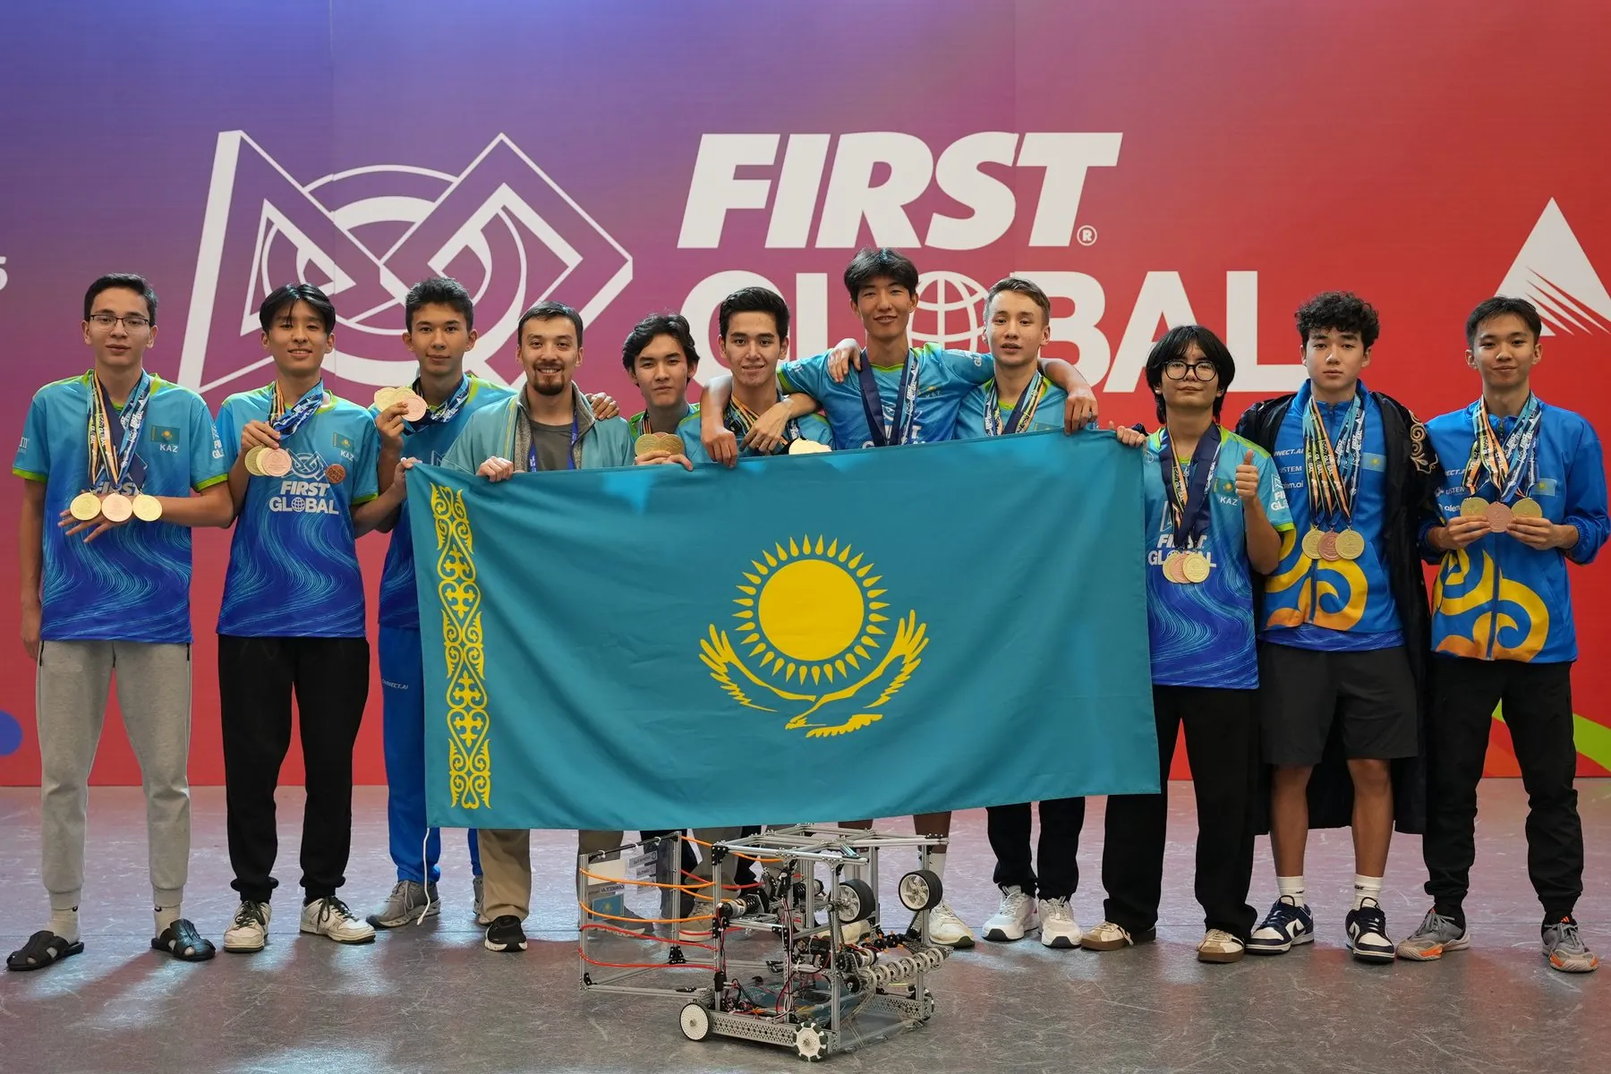
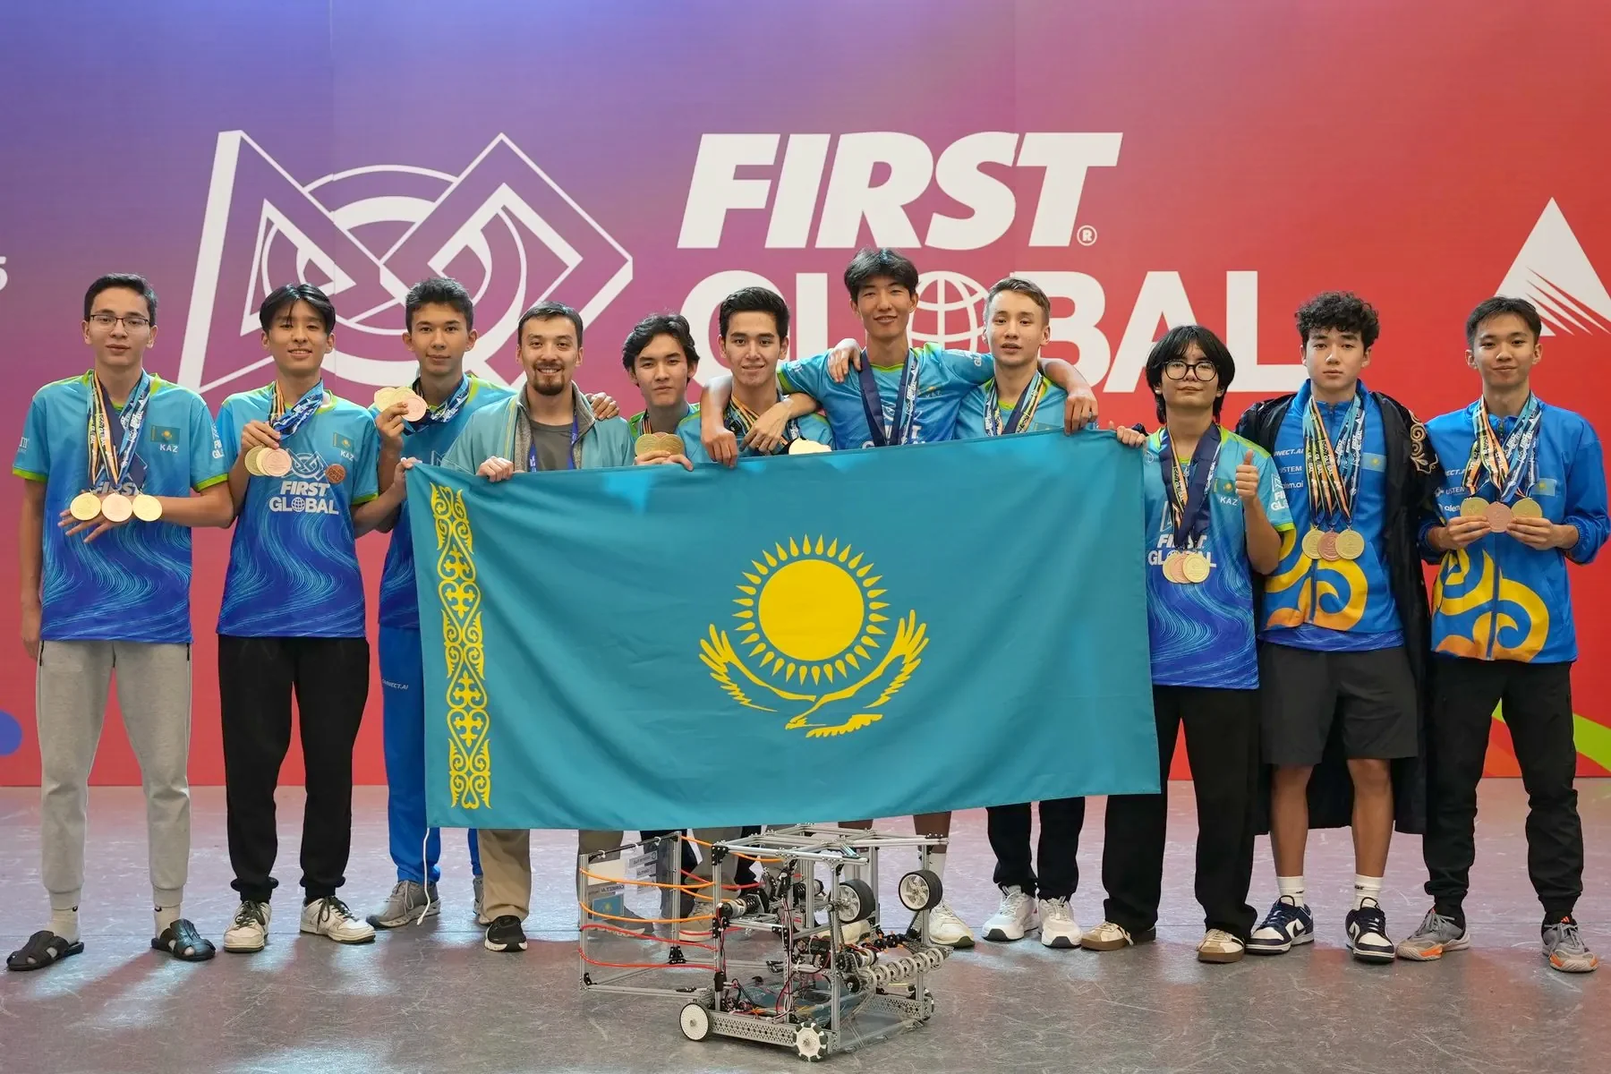
Турниры без места: серая кнопка uSTEM Connect, короткие тексты, место только у скримиджей; фото в шапке светлее (#64)
- Турнир без места проведения в таблице: кнопка «Регистрация в uSTEM Connect» серая и не нажимается, под ней строка «Регистрация ещё не открыта. Следите за обновлениями» (ru/kk/en).
- Турнир с местом или со ссылкой на connect.ustem.kz: пометка «Регистрация открыта в uSTEM Connect», активная кнопка, короткая подсказка.
- Строка места проведения у турниров с Connect не показывается; у скримиджей место остаётся.
- Фото в шапке чуть светлее (средняя яркость +15 %), WebP пересохранены с качеством 86.

Claude-Session: https://claude.ai/code/session_01Y8p6d4PKcjn3n3KiJZWQH4

diff --git a/assets/js/app.js b/assets/js/app.js
@@ -19,14 +19,14 @@ const curl=c=>Array.isArray(c)&&/^https?:\/\//.test(c[1])?c[1]:"";
 /* кнопка регистрации — только ссылка на Google Форму (forms.gle/… или docs.google.com/forms/…, как в tools/update_data.py → is_form_url);
  * любой другой адрес из таблицы (документ, таблица Google, чужой сайт) кнопкой не становится */
 const formUrl=u=>{try{const x=new URL(u);return x.protocol==="https:"&&(x.hostname==="forms.gle"||(x.hostname==="docs.google.com"&&x.pathname.startsWith("/forms/")))?u:""}catch(e){return""}};
-/* uSTEM Connect (data.js → CONNECT): регистрация команд на официальные турниры. Ссылка на конкретное событие – любая гиперссылка
- * на connect.ustem.kz в строке события таблицы; без неё кнопка ведёт на общий список событий платформы */
+/* uSTEM Connect (data.js → CONNECT): регистрация команд на официальные турниры. Платформа берёт события из той же таблицы:
+ * как только в строке турнира заполнено место проведения, он появляется в Connect – и кнопка на сайте становится активной.
+ * Ссылка на конкретное событие – любая гиперссылка на connect.ustem.kz в строке события таблицы; без неё кнопка ведёт на список событий платформы */
 const connUrl=u=>{try{const x=new URL(u);return x.protocol==="https:"&&typeof CONNECT!="undefined"&&x.hostname===CONNECT.host?u:""}catch(e){return""}};
 /* регистрация через uSTEM Connect – командные турниры: Regional, Qualifier, национальный этап, Off-Season и чемпионаты из вкладки Big Events.
  * Скримидж и кик-офф – Google Формы из таблицы; прочие события Big Events (дедлайн и интервью FIRST Leadership Award, Digital Qazaqstan) –
  * как раньше, только ссылки из таблицы; встроенные карточки SMC и FIRST4ALL – со своими ссылками из data.js */
 const viaConnect=e=>(/^(reg|qual|rep|off)$/.test(e.stage)||(e.stage==="big"&&/championship/i.test(e.name)))&&!/^(SMC|F4A)$/.test(e.tab);
-const TG_URL="https://t.me/firstroboticskz";
 const cu=v=>{const u=encodeURI(String(v==null?"":v)).replace(/[()"']/g,"");return u?`url('${u}')`:"none"};   /* в атрибуте style — только одинарные кавычки */
 const lo=s=>String(s||"").replace(/\s+/g," ").trim().toLowerCase();
 const p2=n=>String(n).padStart(2,"0");
@@ -321,20 +321,22 @@ function evCard(e){const i=I[L],online=e.city.key==="online";
   const vis=e.vis,multi=vis.length>1;
   /* порядок строк: город → площадка → дата → категории → регистрация.
    * Регистрация: скримидж (и кик-офф) – Google Формы из таблицы, по кнопке на категорию; официальный турнир (viaConnect) – одна кнопка uSTEM Connect:
-   * место подтверждено или в строке есть ссылка на событие Connect – «регистрация открыта», иначе над той же кнопкой пометка «откроется позже»
-   * и ссылка на Telegram. Google Формы в строках таких турниров кнопками не становятся – кроме семинаров для учителей */
+   * в строке заполнено место проведения (или есть ссылка на connect.ustem.kz) – «регистрация открыта», кнопка активна; иначе серая
+   * неактивная кнопка и строка «регистрация ещё не открыта, следите за обновлениями». Google Формы в строках таких турниров кнопками
+   * не становятся – кроме семинаров для учителей */
   const ses=s=>{
     const cats=s.cats,conn=viaConnect(e);
     const btn=cats.filter(c=>c.url&&(!conn||c.code==="SEM"));
-    const showV=!(online&&(!s.v||/^(online|онлайн)$/i.test(s.v.n)))&&!!(s.v||e.cn);
+    const showV=!conn&&!(online&&(!s.v||/^(online|онлайн)$/i.test(s.v.n)))&&!!(s.v||e.cn);   /* у турниров с uSTEM Connect место не показываем – оно на странице турнира в Connect */
     const one=cats.length===1&&btn.length===1;
     const bl=c=>c.closed?`${catLabel(c)} · ${tt("regclosed")}`:c.code==="SEM"?tt("joinSem"):c.code==="SMC"?tt("smcBtn"):btn.length>1?`${tt("join")} · ${catLabel(c)}`:tt("join");
     const fbs=btn.length?`<div class="fbs">${btn.map(c=>`<a class="fb${c.code==="SEM"?" sem":""}${c.closed?" off":""}" href="${esc(c.url)}" target="_blank" rel="noopener noreferrer" title="${esc(catLabel(c))}">${esc(bl(c))}</a>`).join("")}</div>`:"";
     let reg=fbs;
     if(conn){const open=!!(s.conn||(s.v&&s.d.start)),url=s.conn||CONNECT.url;
-      reg=`<div class="rb ${open?"open":"wait"}"><span class="rs">${esc(tt(open?"rsOpen":"rsWait"))}</span><p class="rn">${esc(tt(open?"connNote":"connWait"))}</p>
-        <div class="fbs"><a class="fb cn${open?"":" soft"}" href="${esc(url)}" target="_blank" rel="noopener noreferrer">${esc(tt("connBtn"))}${ICO.ext}</a></div>
-        ${open?"":`<a class="tgl" href="${TG_URL}" target="_blank" rel="noopener noreferrer">${ICO.tg}${esc(tt("tgBtn"))}</a>`}${fbs}</div>`}
+      reg=`<div class="rb ${open?"open":"wait"}">${open?`<span class="rs">${esc(tt("rsOpen"))}</span>`:""}
+        <div class="fbs">${open?`<a class="fb cn" href="${esc(url)}" target="_blank" rel="noopener noreferrer">${esc(tt("connBtn"))}${ICO.ext}</a>`
+          :`<span class="fb cn dis" aria-disabled="true">${esc(tt("connBtn"))}${ICO.ext}</span>`}</div>
+        <p class="rn">${esc(tt(open?"connNote":"connWait"))}</p>${fbs}</div>`}
     else if(btn.length&&e.stage==="scrim")reg=`<div class="rb form"><span class="rs">${esc(tt("rsForm"))}</span>${fbs}</div>`;
     return `<div class="${multi?"ses":"one"}">
       ${showV?`<p>${ICO.pin}<span>${venueHtml(s.v)}</span></p>`:""}

diff --git a/assets/js/data.js b/assets/js/data.js
@@ -88,11 +88,9 @@ const T={
   regsoon:"регистрация скоро",
   rsForm:"Регистрация: Google Форма",
   rsOpen:"Регистрация открыта в uSTEM Connect",
-  rsWait:"Регистрация откроется позже",
   connBtn:"Регистрация в uSTEM Connect",
-  connNote:"Команды регистрируются на платформе uSTEM Connect: войдите в аккаунт тренера, выберите турнир и подайте заявку.",
-  connWait:"Место проведения и точные даты этого турнира ещё уточняются. Как только выйдет приказ РНПЦ «Дарын» и площадка будет подтверждена, регистрация откроется в uSTEM Connect. Следите за обновлениями здесь и в нашем Telegram.",
-  tgBtn:"Следить в Telegram",
+  connNote:"Войдите в аккаунт тренера и подайте заявку на турнир.",
+  connWait:"Регистрация ещё не открыта. Следите за обновлениями.",
   regs:"Регионы (для FLL)",
   tba:"Дата уточняется",
   vtba:"Площадка уточняется",
@@ -203,11 +201,9 @@ const T={
   regsoon:"тіркелу жақында ашылады",
   rsForm:"Тіркелу: Google Форма",
   rsOpen:"Тіркелу uSTEM Connect-те ашық",
-  rsWait:"Тіркелу кейінірек ашылады",
   connBtn:"uSTEM Connect-те тіркелу",
-  connNote:"Командалар uSTEM Connect платформасында тіркеледі: жаттықтырушы аккаунтына кіріп, жарысты таңдап, өтінім беріңіз.",
-  connWait:"Бұл жарыстың өтетін орны мен нақты күндері әлі нақтылануда. «Дарын» РҒПО бұйрығы шығып, алаң бекітілген бойда тіркелу uSTEM Connect-те ашылады. Жаңалықтарды осы жерден және Telegram арнамыздан қадағалаңыз.",
-  tgBtn:"Telegram-да қадағалау",
+  connNote:"Жаттықтырушы аккаунтына кіріп, жарысқа өтінім беріңіз.",
+  connWait:"Тіркелу әлі ашылмаған. Жаңалықтарды қадағалаңыз.",
   regs:"Қатысатын аймақтар (FLL үшін)",
   tba:"Күні нақтылануда",
   vtba:"Өтетін орны нақтылануда",
@@ -318,11 +314,9 @@ const T={
   regsoon:"registration opens soon",
   rsForm:"Registration: Google Form",
   rsOpen:"Registration open in uSTEM Connect",
-  rsWait:"Registration opens later",
   connBtn:"Register in uSTEM Connect",
-  connNote:"Teams register on the uSTEM Connect platform: sign in to your coach account, choose the tournament and submit an application.",
-  connWait:"The venue and exact dates of this tournament are still being confirmed. As soon as the Daryn RNPC order is issued and the venue is confirmed, registration will open in uSTEM Connect. Follow updates here and on our Telegram.",
-  tgBtn:"Follow on Telegram",
+  connNote:"Sign in to your coach account and submit the team's application.",
+  connWait:"Registration is not open yet. Follow the updates.",
   regs:"Regions (for FLL)",
   tba:"Date TBA",
   vtba:"Venue TBA",
@@ -359,6 +353,7 @@ const T={
 /* правила сезона по языкам (на en показывается казахская версия); вкладка «Сайт» таблицы может их заменить */
 const RULES={ru:"https://docs.google.com/document/d/1TV8MHEAr9Bs6SmhHWekbSw3sm-X9tSE7zwMgebt6Rq8/edit?tab=t.0",kk:"https://docs.google.com/document/d/1UYpkDZL86SZpFMcgtpUmEJi4qnT7Oj-1BdGGisJD9ws/edit?tab=t.0"};
 /* uSTEM Connect – платформа регистрации команд на официальные турниры (все этапы, кроме кик-оффа и скримиджа; скримиджи – Google Формы из таблицы).
+ * Платформа берёт события из той же таблицы: заполнили место проведения – турнир появился в Connect, кнопка на сайте стала активной.
  * url – куда ведёт кнопка, пока у события нет своей ссылки; своя ссылка – любая гиперссылка на connect.ustem.kz в строке события в таблице.
  * host – по нему такая ссылка узнаётся (app.js → connUrl). Переехала платформа – поменяйте обе строки. */
 const CONNECT={url:"https://connect.ustem.kz/events",host:"connect.ustem.kz"};

diff --git a/assets/css/style.css b/assets/css/style.css
@@ -53,7 +53,7 @@ button,select,input{font:inherit;color:inherit}
 
 
 /* ---------- первый экран ---------- */
-.hero{position:relative;display:flex;color:#fff;min-height:calc(100vh - 135px);min-height:calc(100svh - 135px);background:#0c1e36 url(../img/team-kz-fgc.webp?v=20261023-0009) 50% 35%/cover no-repeat;align-items:flex-end} /* первый экран: высота окна минус шапка; у сгиба чуть виден край карточки сезона с меткой */
+.hero{position:relative;display:flex;color:#fff;min-height:calc(100vh - 135px);min-height:calc(100svh - 135px);background:#0c1e36 url(../img/team-kz-fgc.webp?v=20261023-1240) 50% 35%/cover no-repeat;align-items:flex-end} /* первый экран: высота окна минус шапка; у сгиба чуть виден край карточки сезона с меткой */
 .hero:before{content:"";position:absolute;inset:0;background:linear-gradient(180deg,rgba(10,26,50,.06) 0%,rgba(10,26,50,.14) 38%,rgba(10,26,50,.46) 68%,rgba(10,26,50,.68) 100%)} /* затемнение фото: лёгкое сверху, сильнее у текста внизу */
 .hero h1{text-shadow:0 1px 14px rgba(8,20,40,.35);font-weight:800;text-transform:uppercase;max-width:960px;letter-spacing:-.005em;font-size:clamp(27px,2.7vw,40.5px);line-height:1.12}
 .hero p{text-shadow:0 1px 14px rgba(8,20,40,.35);font-size:clamp(19px,1.85vw,28px);line-height:1.25;font-weight:400;color:#fff;margin-top:26px;max-width:820px}
@@ -326,16 +326,11 @@ a.alc:focus-visible{outline:2px solid var(--blue);outline-offset:2px}
 .rb.form .rs{background:#fdecec;color:#b42318}
 .rb.open .rs{background:#e4edfc;color:#1e4fc2}
 .rb.wait .rs{background:#f1f3f6;color:#4b5563}
-.ec p.rn{display:block;margin:8px 0 0;font-size:13px;line-height:19px;color:var(--mu)}
-.rb.wait p.rn{background:#f8fafc;border-left:3px solid #cbd5e1;border-radius:0 6px 6px 0;padding:7px 10px;color:#374151}
+.ec p.rn{display:block;margin:6px 0 0;font-size:12.5px;line-height:18px;color:var(--mu)}
 .fb.cn{gap:7px;background:var(--blue);border-color:var(--blue);color:#fff}
 .fb.cn svg{width:15px;height:15px;flex:none;fill:none;stroke:currentColor;stroke-width:2;stroke-linecap:round;stroke-linejoin:round}
 .fb.cn:hover{background:#0c1e36;border-color:#0c1e36}
-.fb.cn.soft{background:#fff;color:var(--blue)}
-.fb.cn.soft:hover{background:var(--blue);color:#fff}
-.tgl{display:inline-flex;align-items:center;gap:6px;margin-top:8px;padding:4px 0;font-size:13px;font-weight:600;color:var(--blue)}
-.tgl svg{width:16px;height:16px;flex:none;fill:currentColor}
-.tgl:hover{color:#0c1e36}
+.fb.cn.dis{background:#eef1f5;border-color:#e3e7ec;color:#8a94a3;cursor:default;pointer-events:none} /* турнира ещё нет в uSTEM Connect */
 .morew{position:relative;z-index:2;text-align:center;margin-top:-34px}
 .morew.end{visibility:hidden}
 .more{display:inline-flex;align-items:center;justify-content:center;border:1px solid #eceff3;background:#fff;border-radius:999px;box-shadow:0 2px 10px rgba(0,0,0,.14);cursor:pointer;color:#4b5563;padding:8px 14px;font-size:0;transition:transform .18s,box-shadow .18s}
@@ -500,7 +495,7 @@ footer .team+.cp{margin-top:32px}
   body{font-size:16px}
   .w{padding-left:20px;padding-right:20px}
   /* телефон: фото сборной целиком по ширине экрана (высота = 2/3 ширины), под ним текст на тёмно-синем; граница фото и фона сведена градиентом */
-  .hero{min-height:0;align-items:flex-start;background:#0c1e36 url(../img/team-kz-fgc-m.webp?v=20261023-0009) 50% 0/100% auto no-repeat}
+  .hero{min-height:0;align-items:flex-start;background:#0c1e36 url(../img/team-kz-fgc-m.webp?v=20261023-1240) 50% 0/100% auto no-repeat}
   .hero:before{background:linear-gradient(180deg,rgba(12,30,54,0) 0,rgba(12,30,54,0) calc(66.67vw - 70px),rgba(12,30,54,.6) calc(66.67vw - 22px),#0c1e36 calc(66.67vw + 1px))}
   .hero .in{padding:calc(66.67vw - 6px) 20px 44px}
   .hero h1{font-size:clamp(21px,6vw,27px);line-height:1.2}

diff --git a/index.html b/index.html
@@ -14,7 +14,7 @@
 <link rel="preconnect" href="https://fonts.gstatic.com" crossorigin>
 <link href="https://fonts.googleapis.com/css2?family=Inter:ital,wght@0,400;0,500;0,600;0,700;0,800;1,400;1,500;1,600;1,700;1,800&display=swap" rel="stylesheet">
 <script src="assets/js/top.js?v=20261023-0045"></script>
-<link rel="stylesheet" href="assets/css/style.css?v=20261023-1200">
+<link rel="stylesheet" href="assets/css/style.css?v=20261023-1230">
 </head>
 <body>
 
@@ -227,13 +227,13 @@
   </div>
 </footer>
 
-<script src="assets/js/data.js?v=20261023-1200"></script>
+<script src="assets/js/data.js?v=20261023-1230"></script>
 <script src="assets/js/kzmap.js?v=20261023-0140"></script>
 <script src="assets/js/alumni.js?v=20261023-0145"></script>
 <script src="assets/data/sheet.js"></script>
 <script src="assets/data/news.js"></script>
 <script src="assets/data/status.js"></script>
 <script src="assets/data/site.js"></script>
-<script src="assets/js/app.js?v=20261023-1200"></script>
+<script src="assets/js/app.js?v=20261023-1230"></script>
 </body>
 </html>

diff --git a/404.html b/404.html
@@ -7,7 +7,7 @@
 <meta name="robots" content="noindex">
 <meta http-equiv="Content-Security-Policy" content="default-src 'self'; script-src 'self'; style-src 'self' 'unsafe-inline' https://fonts.googleapis.com; font-src https://fonts.gstatic.com; img-src 'self' data:; object-src 'none'; base-uri 'none'; form-action 'none'">
 <link rel="icon" type="image/png" href="/assets/img/x-logo.webp">
-<link rel="stylesheet" href="/assets/css/style.css?v=20261023-1200">
+<link rel="stylesheet" href="/assets/css/style.css?v=20261023-1230">
 <script src="/assets/js/notfound.js?v=20261020f"></script>
 </head>
 <body>

diff --git a/news.html b/news.html
@@ -10,7 +10,7 @@
 <link rel="preconnect" href="https://fonts.googleapis.com">
 <link rel="preconnect" href="https://fonts.gstatic.com" crossorigin>
 <link href="https://fonts.googleapis.com/css2?family=Inter:ital,wght@0,400;0,500;0,600;0,700;0,800;1,700;1,800&display=swap" rel="stylesheet">
-<link rel="stylesheet" href="assets/css/style.css?v=20261023-1200">
+<link rel="stylesheet" href="assets/css/style.css?v=20261023-1230">
 </head>
 <body>
 
